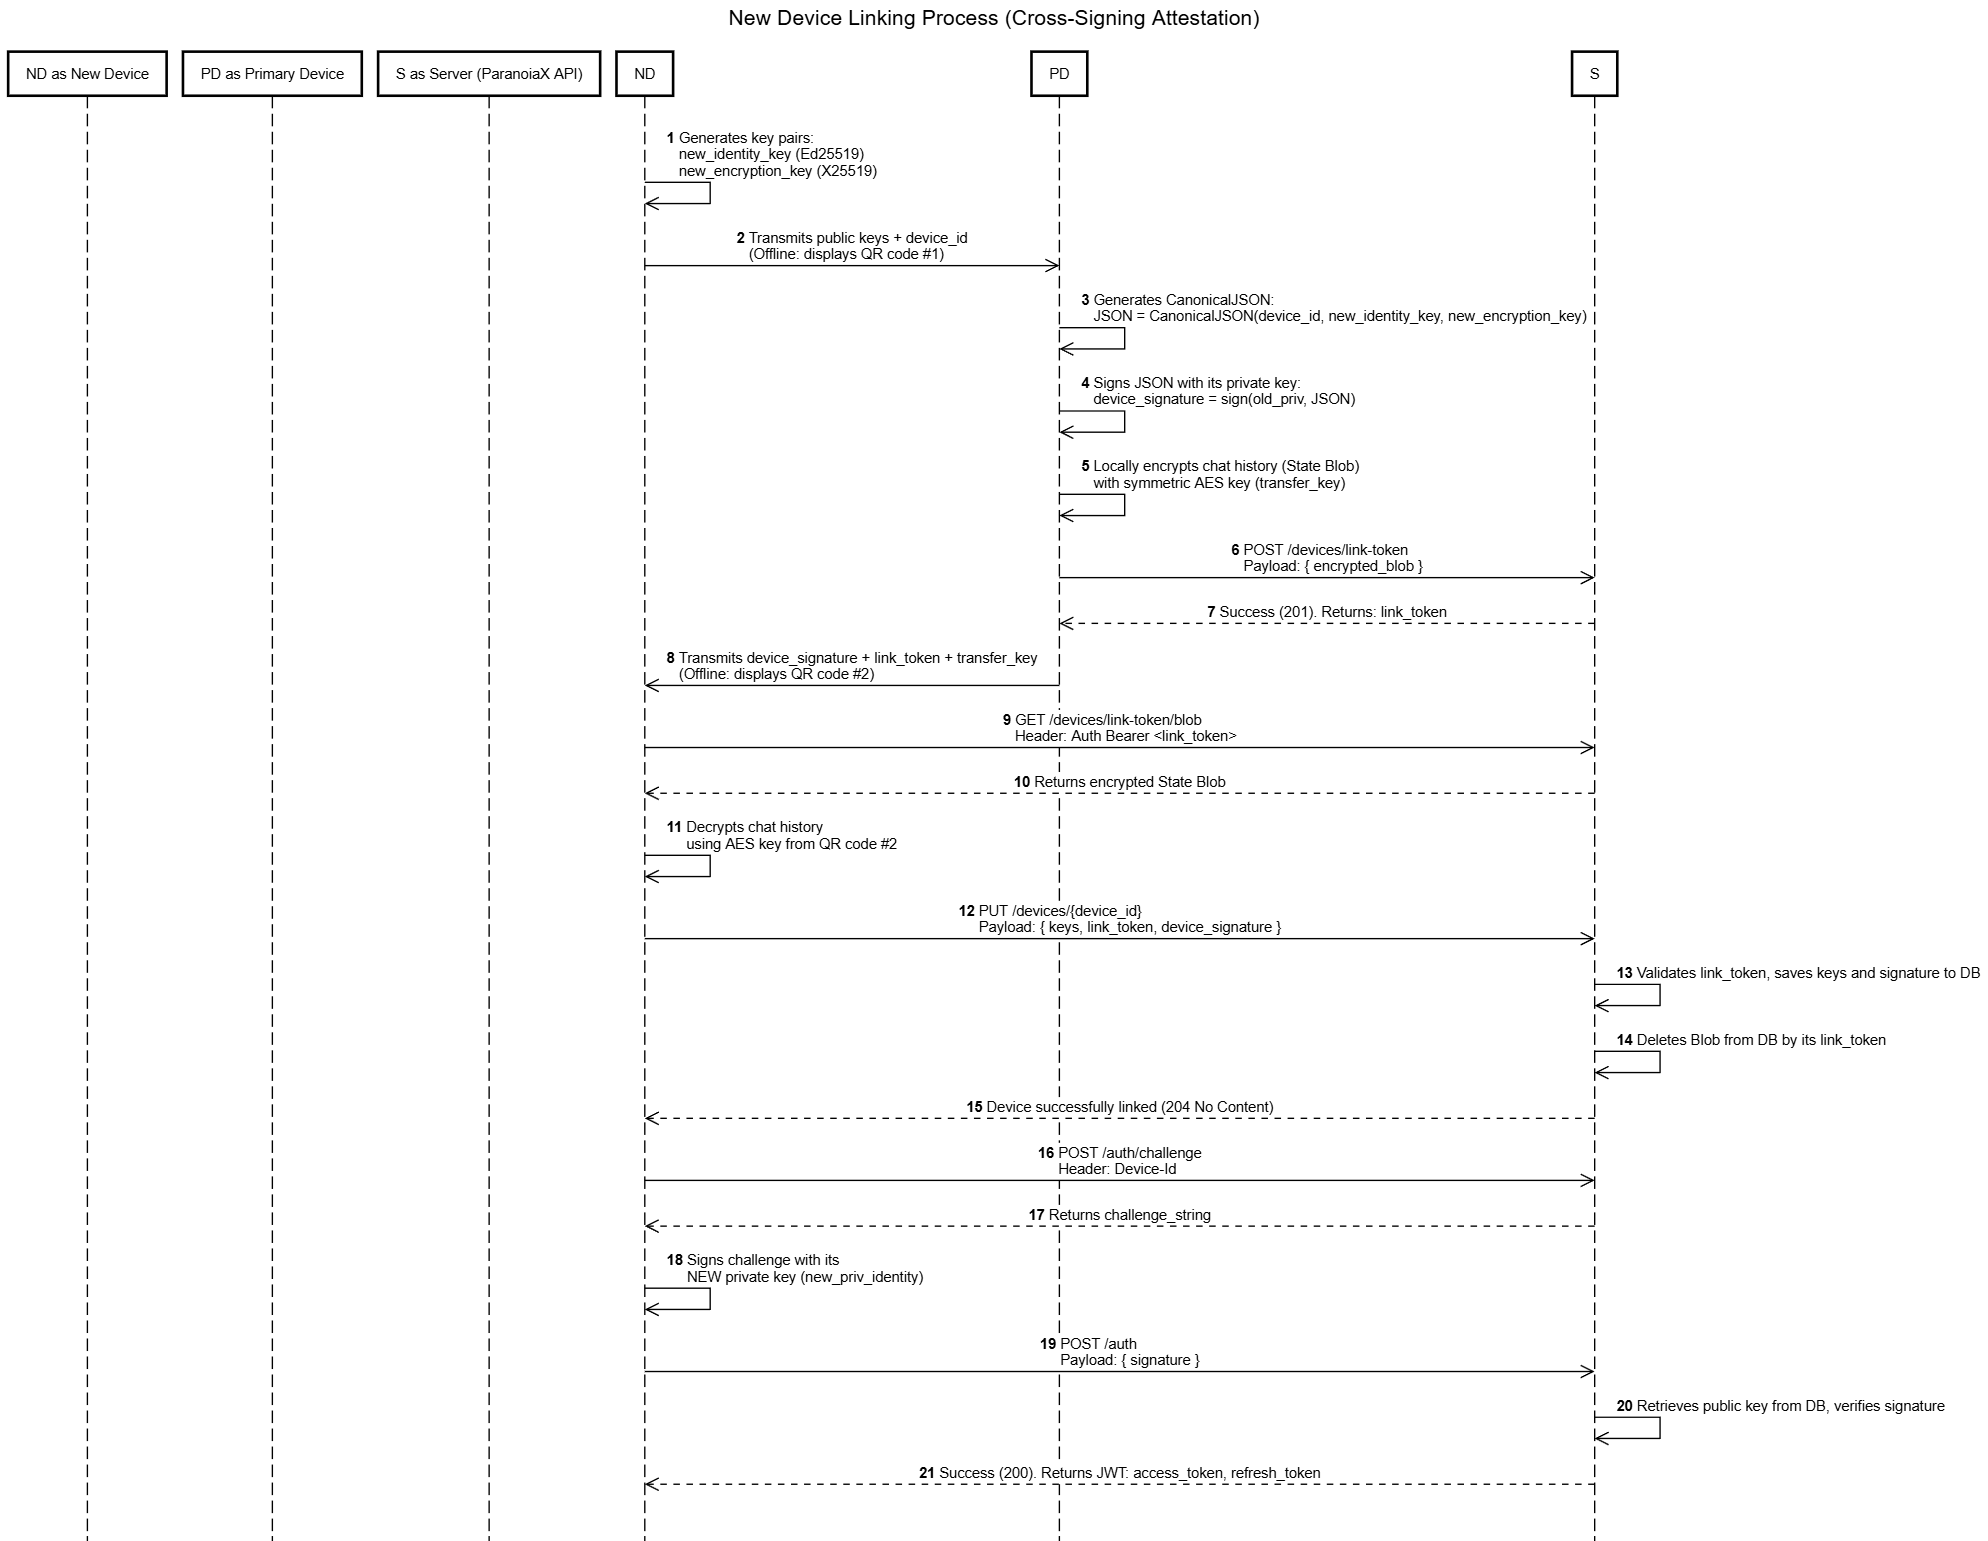
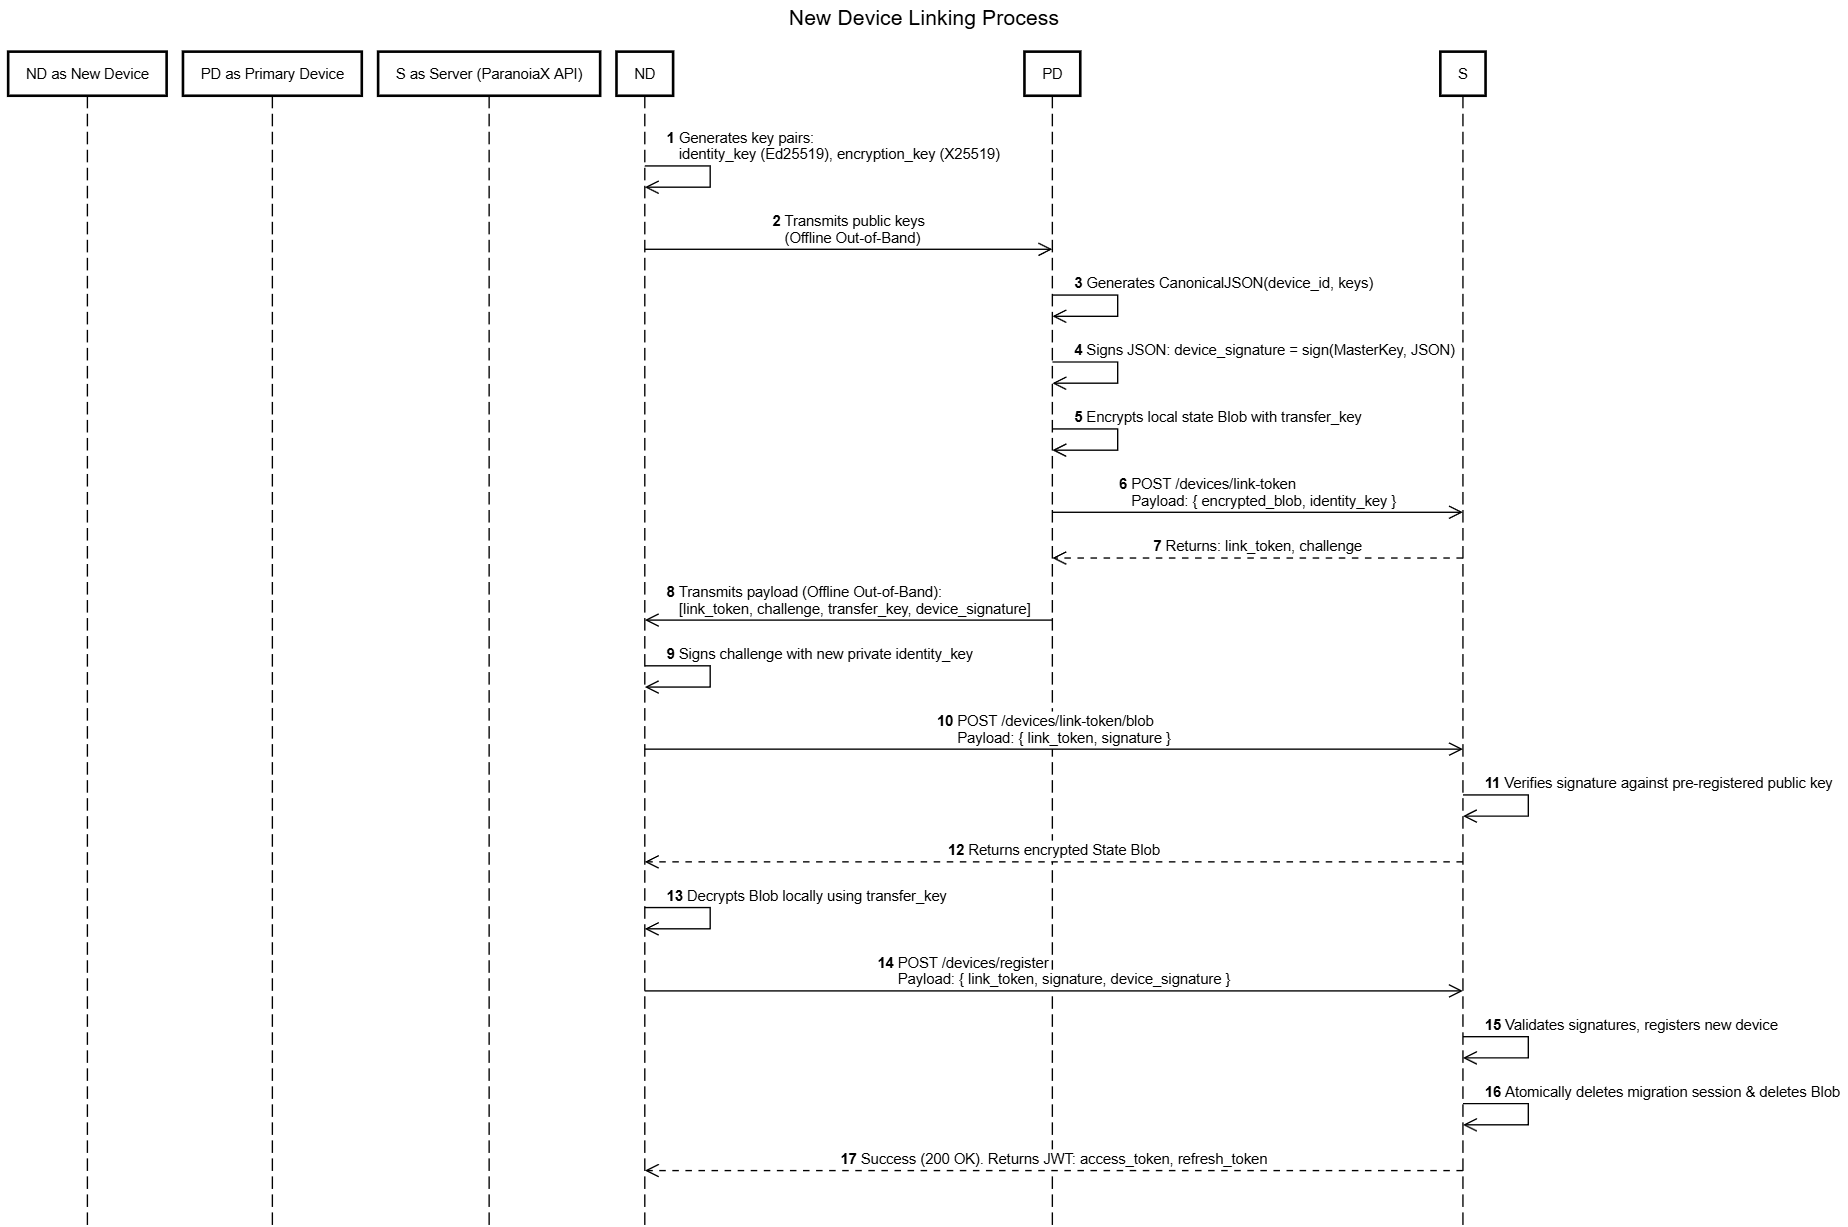
Improved the migration protocol
- Updated the OpenAPI specification
- Updated the README
- Updated the sequence diagram

diff --git a/users/README.md b/users/README.md
@@ -15,8 +15,8 @@ The primary client application executes a fully localized cryptographic initiali
 **Phase 1: Invitation & Secure Connection**
 
 1. **Invite Generation:** An existing user generates a one-time temporary registration token via their client application.
-2. **QR Code Formation:** The server URL, registration token, and Subject Public Key Info (spki_pin) are embedded into a QR code (or invite link).
-3. **MITM Protection:** The new client scans the QR code and verifies the certificate hash during the very first connection. This guarantees protection against Man-in-the-Middle (MITM) attacks by ISPs or corporate networks.
+2. **Payload Formation:** The server URL, registration token, and Subject Public Key Info (spki_pin) are embedded into a payload for out-of-band transmission.
+3. **MITM Protection:** The new client reads the payload and verifies the certificate hash during the very first connection. This guarantees protection against Man-in-the-Middle (MITM) attacks by ISPs or corporate networks.
 
 **Phase 2: Local Cryptographic Initialization**
 
@@ -62,9 +62,14 @@ To maintain Perfect Forward Secrecy and ensure a compromised device does not exp
 1. **Key Generation:** The new device generates its own independent Ed25519 and X25519 key pairs.
 2. **Cross-Signing (Offline):** The primary device scans the new device's keys and signs them using its Master Private Key, generating a `device_signature`.
 3. **State Encryption:** The primary device encrypts the local database of symmetric chat keys using a randomly generated one-time `transfer_key`.
-4. **Server Upload:** The encrypted Blob is uploaded to the server. The server acts as a "dumb pipe" and cannot decrypt it.
-5. **Optical Transmission (Offline):** The primary device displays a QR code containing the `link_token`, the `device_signature`, and the `transfer_key`. The symmetric key never touches the network.
-6. **Atomic Registration (2-Phase Commit):** The new device fetches the Blob, decrypts it locally, and submits its keys and signature to the server. The server verifies the token, registers the device, and strictly then deletes the transit Blob.
+4. **Server Upload:** The primary device uploads the encrypted Blob along with the new device's identity key to the server. The server returns an `invite_token` and a one-time `challenge`.
+5. **Out-of-Band Transmission (Offline):** The primary device transfers the migration context via a secure out-of-band channel. The payload contains:
+   * `invite_token`: The session identifier for the server.
+   * `challenge`: The server-generated challenge to prevent replay attacks.
+   * `transfer_key`: The symmetric key to decrypt the Blob locally (never touches the network).
+   * `device_signature`: The Master Key's authorization of the new device.
+6. **Server Fetch:** The new device reads the payload, signs the challenge using its private `identity_key`, and requests the Blob. The server verifies the signature.
+7. **Registration:** The new device submits the final registration request containing the `invite_token`, the signed `challenge`, and the `device_signature`. The server validates the signature, registers the device, and then deletes the migration session and deletes the Blob.
 
 ### Sequence Diagram
 ![NewDeviceLinkingProcess.png](docs/assets/NewDeviceLinkingProcess.png)
